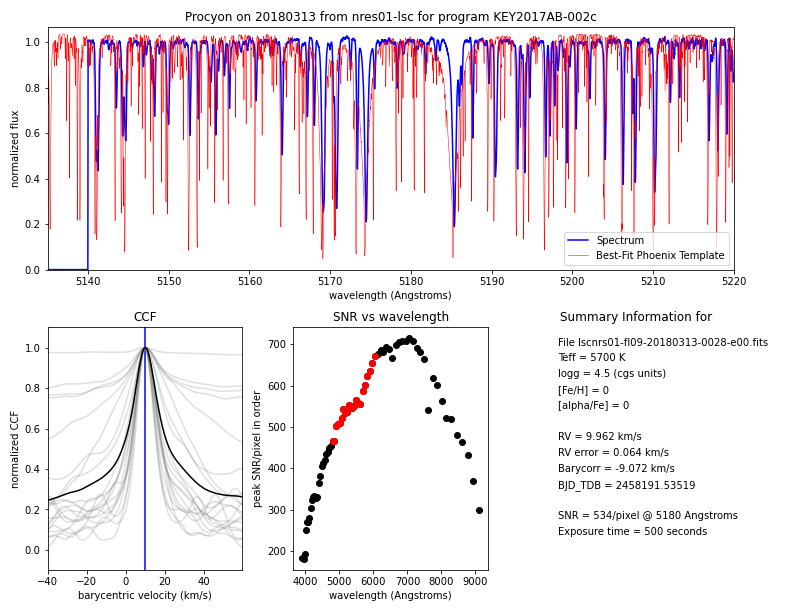
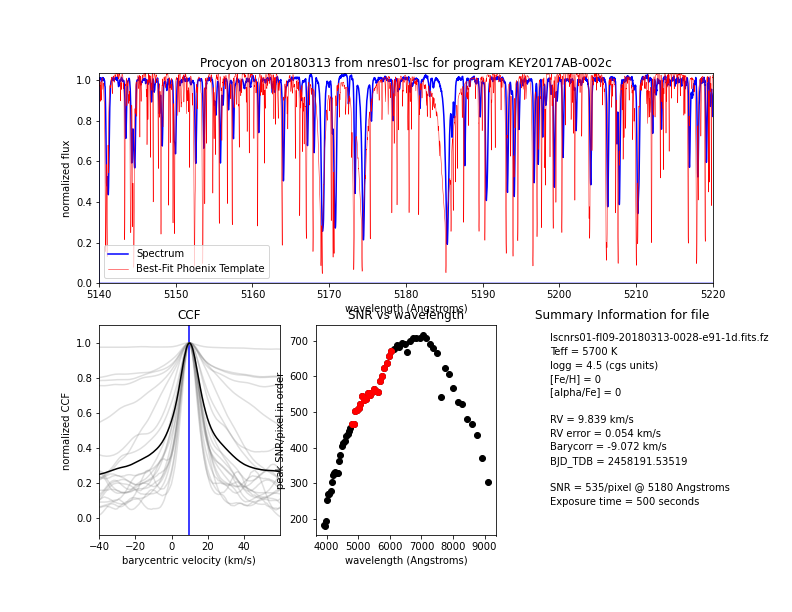
Updated example plots in docs

Changed region(s): [[0.0, 0.0, 0.9697, 0.9935], [0.6061, 0.7451, 0.6364, 0.8382], [0.0303, 0.5588, 0.0606, 0.5899]]

diff --git a/banzai_nres/pdf.py b/banzai_nres/pdf.py
@@ -87,7 +87,7 @@ class MakePDFSummary(Stage):
 
         pl.text(0.1, top_line - line_separation * 11, 'SNR = {0:1.0f}/pixel @ 5180 Angstroms'.format(image.meta['SNR']))
         pl.text(0.1, top_line - line_separation * 12, 'Exposure time = {0:1.0f} seconds'.format(image.meta['EXPTIME']))
-
+        
         # Next Page
 
         # make the plots of individual lines of interest
@@ -116,7 +116,6 @@ class MakePDFSummary(Stage):
             make_line_plot(wavelength, flux, order, ax, line_center, line_name, line_order)
 
         # If there is a working exposure meter, a fourth page showing that can go here.
-        import pdb; pdb.set_trace()
         image.summary_figures = [fig1, fig2, fig3]
         return image
 
